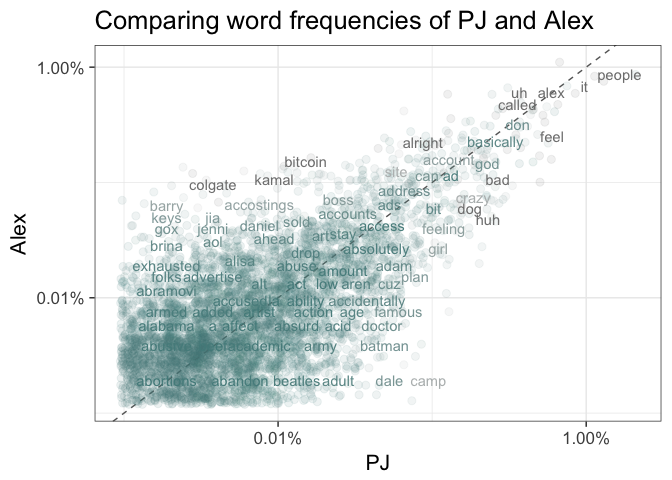
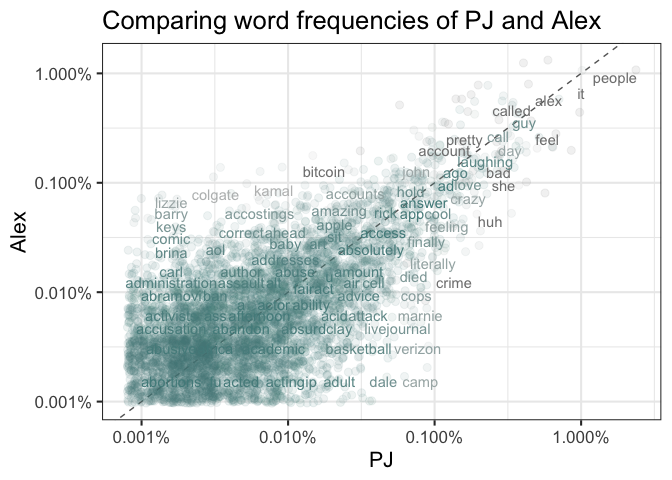
update with csv linked via github

diff --git a/Reply_All_Text_Analysis_2.md b/Reply_All_Text_Analysis_2.md
@@ -20,16 +20,16 @@ Start by reading in our data (link to previous post) [link to
 data](https://github.com/landesbergn/reply-all/blob/master/reply_all_text_data.csv).
 
 ``` r
-tidy_ep_data <- readr::read_csv("reply_all_text_data.csv")
+tidy_ep_data <- readr::read_csv("https://github.com/landesbergn/reply-all/raw/master/reply_all_text_data.csv")
 ```
 
     ## Parsed with column specification:
     ## cols(
     ##   link = col_character(),
-    ##   episode_number = col_integer(),
+    ##   episode_number = col_double(),
     ##   full_link = col_character(),
     ##   speaker = col_character(),
-    ##   linenumber = col_integer(),
+    ##   linenumber = col_double(),
     ##   word = col_character()
     ## )
 
@@ -45,18 +45,18 @@ tidy_ep_data %>%
 
     ## # A tibble: 10 x 2
     ## # Groups:   word [10]
-    ##     word     n
+    ##    word      n
     ##    <chr> <int>
-    ##  1   the 19554
-    ##  2   and 17655
-    ##  3    to 14342
-    ##  4     i 14043
-    ##  5     a 13979
-    ##  6  that 11176
-    ##  7  like 10857
-    ##  8   you 10704
-    ##  9    of 10334
-    ## 10    it  8598
+    ##  1 the   23932
+    ##  2 and   21301
+    ##  3 to    17538
+    ##  4 i     16974
+    ##  5 a     16750
+    ##  6 like  13883
+    ##  7 that  13412
+    ##  8 you   12786
+    ##  9 of    12560
+    ## 10 it    10341
 
 We can import the “stop\_words” data set from the `tidytext` package.
 
@@ -66,14 +66,14 @@ head(stop_words)
 ```
 
     ## # A tibble: 6 x 2
-    ##        word lexicon
-    ##       <chr>   <chr>
-    ## 1         a   SMART
-    ## 2       a's   SMART
-    ## 3      able   SMART
-    ## 4     about   SMART
-    ## 5     above   SMART
-    ## 6 according   SMART
+    ##   word      lexicon
+    ##   <chr>     <chr>  
+    ## 1 a         SMART  
+    ## 2 a's       SMART  
+    ## 3 able      SMART  
+    ## 4 about     SMART  
+    ## 5 above     SMART  
+    ## 6 according SMART
 
 ``` r
 # remove stop words with an anti_join
@@ -95,18 +95,18 @@ tidy_ep_data_clean %>%
 
     ## # A tibble: 10 x 2
     ## # Groups:   word [10]
-    ##      word     n
-    ##     <chr> <int>
-    ##  1 people  2498
-    ##  2   yeah  2394
-    ##  3     it  1934
-    ##  4      i  1679
-    ##  5     uh  1268
-    ##  6 laughs  1054
-    ##  7   time  1024
-    ##  8     um  1023
-    ##  9   that   930
-    ## 10     he   902
+    ##    word       n
+    ##    <chr>  <int>
+    ##  1 people  3068
+    ##  2 yeah    2925
+    ##  3 it      2350
+    ##  4 i       2054
+    ##  5 uh      1484
+    ##  6 laughs  1344
+    ##  7 um      1281
+    ##  8 time    1230
+    ##  9 that    1139
+    ## 10 don     1123
 
 ``` r
 # plot words used 500 times
@@ -151,9 +151,9 @@ ggplot(frequency, aes(x = `PJ VOGT`, y = `ALEX GOLDMAN`, color = abs(`ALEX GOLDM
   labs(y = "Alex", x = "PJ", title = "Comparing word frequencies of PJ and Alex")
 ```
 
-    ## Warning: Removed 8101 rows containing missing values (geom_point).
+    ## Warning: Removed 8848 rows containing missing values (geom_point).
 
-    ## Warning: Removed 8101 rows containing missing values (geom_text).
+    ## Warning: Removed 8848 rows containing missing values (geom_text).
 
 ![](Reply_All_Text_Analysis_2_files/figure-gfm/unnamed-chunk-7-1.png)<!-- -->
 
